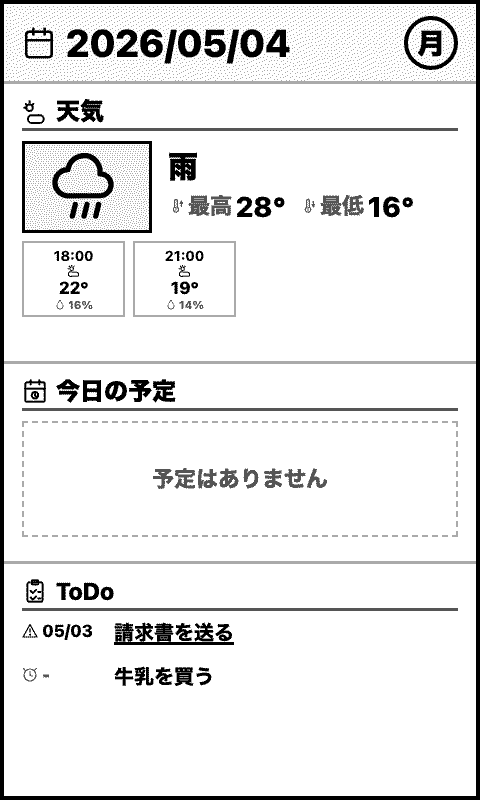
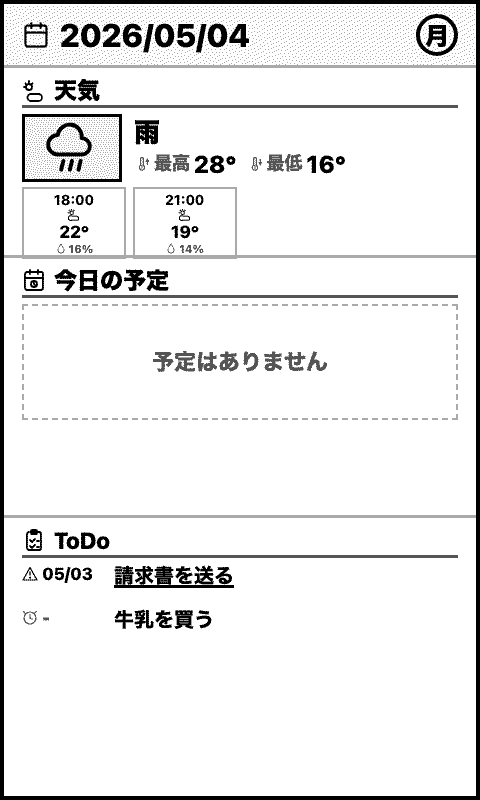
feat: ダッシュボードのスタイルを調整し、レイアウトを改善

Changed region(s): [[0.0, 0.0, 1.0, 0.4062], [0.0312, 0.5625, 0.9688, 0.875], [0.0312, 0.4375, 0.9688, 0.5312]]

diff --git a/templates/dashboard.html b/templates/dashboard.html
@@ -21,7 +21,7 @@
 
     .dashboard {
       display: grid;
-      grid-template-rows: 80px 280px 200px 240px;
+      grid-template-rows: 64px 205px 252px 279px;
       width: 480px;
       height: 800px;
       border: 4px solid #000;
@@ -29,7 +29,7 @@
 
     section,
     header {
-      padding: 14px 18px;
+      padding: 10px 18px;
       border-bottom: 3px solid #aaa;
     }
 
@@ -51,7 +51,7 @@
     }
 
     .date {
-      font-size: 38px;
+      font-size: 32px;
       font-weight: 800;
       line-height: 1;
     }
@@ -59,11 +59,11 @@
     .weekday {
       display: grid;
       place-items: center;
-      width: 54px;
-      height: 54px;
+      width: 42px;
+      height: 42px;
       border: 4px solid #000;
       border-radius: 50%;
-      font-size: 28px;
+      font-size: 24px;
       font-weight: 800;
     }
 
@@ -71,10 +71,10 @@
       display: flex;
       gap: 8px;
       align-items: center;
-      margin: 0 0 10px;
-      padding-bottom: 4px;
+      margin: 0 0 6px;
+      padding-bottom: 3px;
       border-bottom: 3px solid #555;
-      font-size: 24px;
+      font-size: 23px;
       font-weight: 800;
       line-height: 1;
     }
@@ -93,35 +93,35 @@
     }
 
     .heading-icon {
-      width: 26px;
-      height: 26px;
+      width: 24px;
+      height: 24px;
     }
 
     .date-icon {
-      width: 34px;
-      height: 34px;
+      width: 28px;
+      height: 28px;
     }
 
     .weather-main {
       display: grid;
-      grid-template-columns: 130px 1fr;
-      gap: 16px;
+      grid-template-columns: 100px 1fr;
+      gap: 12px;
       align-items: center;
-      margin-bottom: 8px;
+      margin-bottom: 7px;
     }
 
     .weather-icon {
       display: grid;
       place-items: center;
-      height: 92px;
+      height: 64px;
       border: 3px solid #000;
       background: #eee;
       color: #000;
     }
 
     .weather-icon .svg-icon {
-      width: 70px;
-      height: 70px;
+      width: 50px;
+      height: 50px;
     }
 
     .weather-summary {
@@ -129,16 +129,16 @@
     }
 
     .weather-label {
-      margin-bottom: 8px;
-      font-size: 30px;
+      margin-bottom: 4px;
+      font-size: 26px;
       font-weight: 800;
       line-height: 1;
     }
 
     .temperature {
       display: flex;
-      gap: 14px;
-      font-size: 28px;
+      gap: 10px;
+      font-size: 24px;
       font-weight: 800;
     }
 
@@ -150,19 +150,19 @@
 
     .temperature span {
       color: #555;
-      font-size: 22px;
+      font-size: 18px;
       font-weight: 700;
     }
 
     .hourly {
       display: grid;
       grid-template-columns: repeat(4, 1fr);
-      gap: 8px;
+      gap: 7px;
     }
 
     .hour {
-      min-height: 46px;
-      padding: 4px;
+      min-height: 40px;
+      padding: 2px 4px;
       border: 2px solid #aaa;
       text-align: center;
     }
@@ -170,21 +170,21 @@
     .hour-weather {
       display: flex;
       justify-content: center;
-      height: 14px;
+      height: 12px;
     }
 
     .hour-weather .svg-icon {
-      width: 14px;
-      height: 14px;
+      width: 12px;
+      height: 12px;
     }
 
     .hour-time {
-      font-size: 14px;
+      font-size: 13px;
       font-weight: 700;
     }
 
     .hour-temp {
-      font-size: 17px;
+      font-size: 16px;
       font-weight: 800;
     }
 
